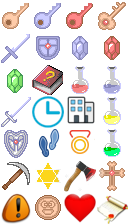
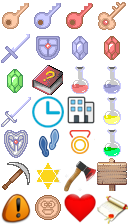
Update Autosave

Changed region(s): [[0.75, 0.6875, 1.0, 0.875]]

diff --git a/mota4/constants.cpp b/mota4/constants.cpp
@@ -35,6 +35,7 @@ void constants::init()
 	msg=MESSAGE_START;
 	starttime=0;
 	ending=0;
+	savetime=0;
 	for (int i=0;i<1000;i++) sd[i].hp=0;
 }
 void constants::loadResources()
@@ -110,6 +111,7 @@ void constants::loadResources()
 	s_shield3=new hgeSprite(ht_icon,96,128,32,32);
 	s_wand=new hgeSprite(ht_special,224,800,32,32);
 	s_critical=new hgeSprite(ht_icon2,0,192,32,32);
+	s_hint=new hgeSprite(ht_icon2,96,160,32,32);
 	//special
 	s_sigh=new hgeSprite(ht_special,192,800,32,32);
 	s_sighed=new hgeSprite(ht_special,192,832,32,32);

diff --git a/mota4/npc.cpp b/mota4/npc.cpp
@@ -12,7 +12,7 @@ void c_map_npc::init(int t)
 		for(int i=0;i<4;i++) npc[i]=new hgeSprite(consts.ht_npc,32*i,192,32,32);
 	}
 	else {
-		for(int i=0;i<4;i++) npc[i]=new hgeSprite(consts.ht_npc,32*i,0,32,32);
+		for(int i=0;i<4;i++) npc[i]=consts.s_hint;
 	}
 }
 void c_map_npc::show(int i,int j)
